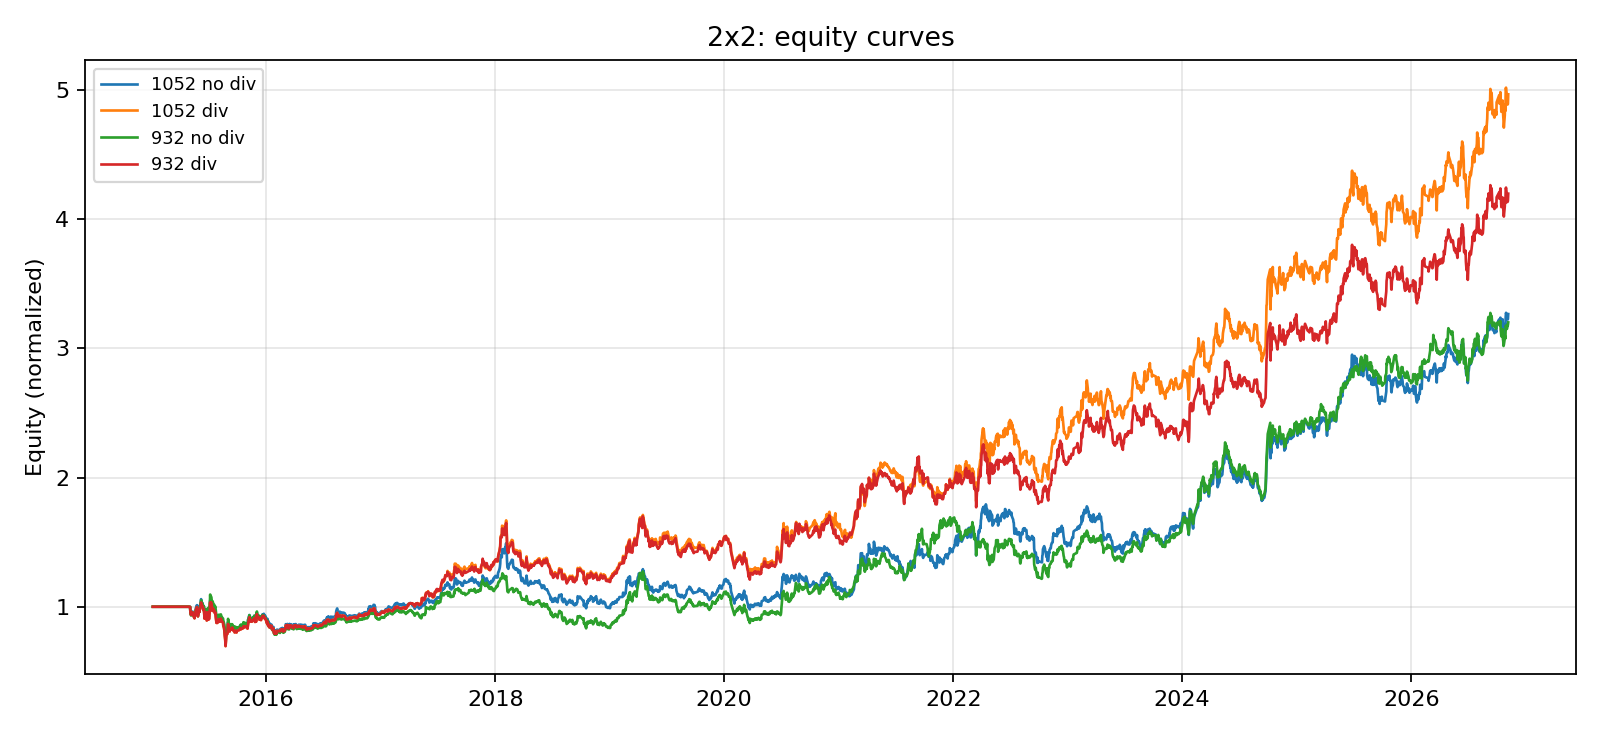
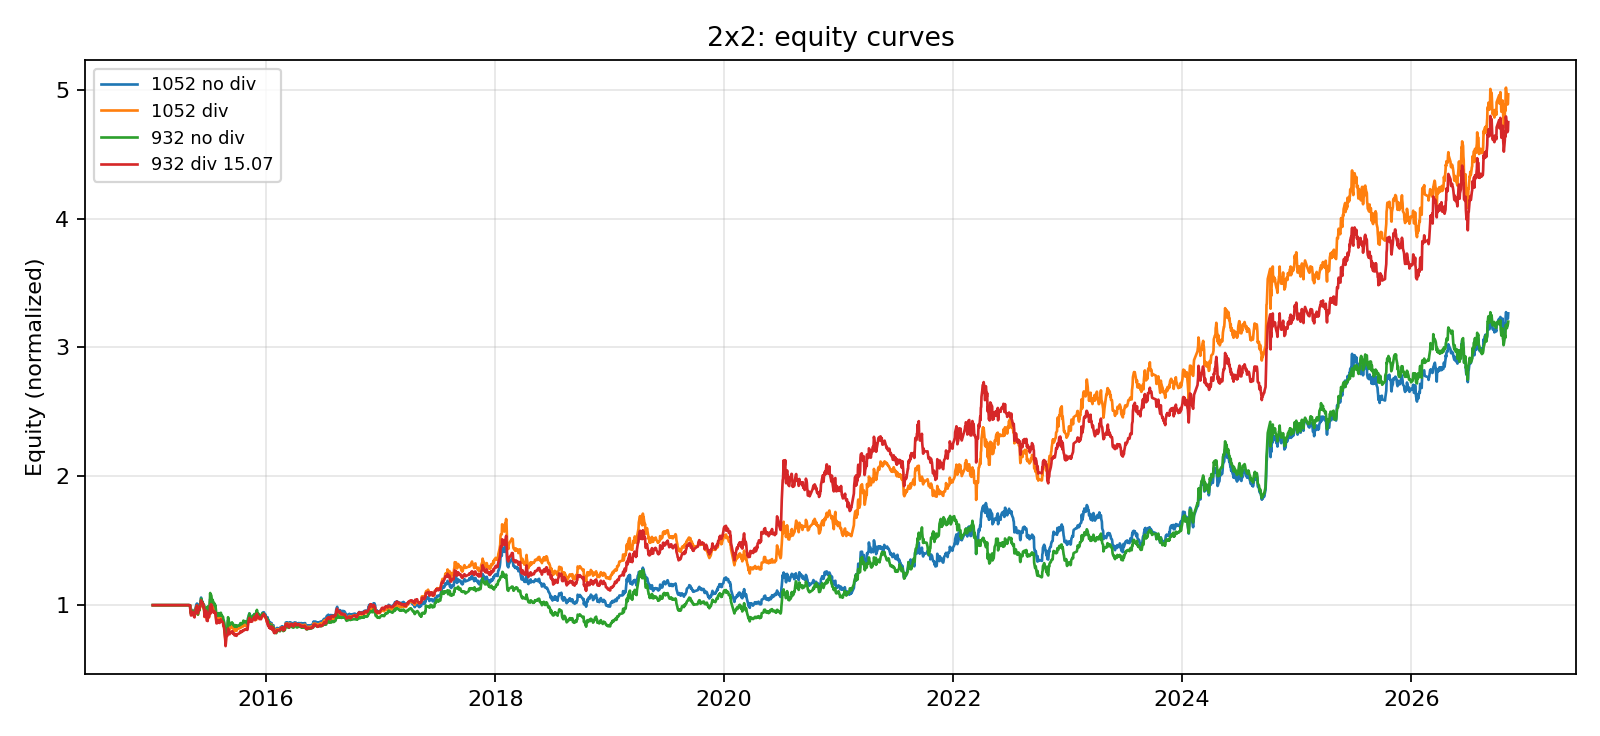
feat(backtest): run full 121 dividend grids and update 932

diff --git a/backtesting/run_matrix_cell_fast.py b/backtesting/run_matrix_cell_fast.py
@@ -1,0 +1,75 @@
+#!/usr/bin/env python3
+"""缓存价格/财务后的多进程版：每个 worker 只加载一次数据。"""
+import argparse, os, sys
+sys.path.insert(0,'.')
+import pandas as pd
+
+def init(pool):
+    import config
+    SNAP='/tmp/bt_snapshot_20261120'
+    if os.path.exists(os.path.join(SNAP,'price')):
+        config.PRICE_DATA_DIR=os.path.join(SNAP,'price')
+        config.FINANCIAL_DATA_DIR=os.path.join(SNAP,'financial')
+    import data_loader, stock_selector, backtest_engine
+    import universe_compare as uc
+    uc.set_pool(pool)
+    codes=data_loader.load_stock_pool()['code'].tolist()
+    price={c:data_loader.load_price_data(c) for c in codes}
+    fin={c:data_loader.load_financial_data(c) for c in codes}
+    pool_df=data_loader.load_stock_pool()
+    def lp(c): return price.get(c, pd.DataFrame())
+    def lf(c): return fin.get(c, pd.DataFrame())
+    def lsp(): return pool_df
+    data_loader.load_price_data=lp; data_loader.load_financial_data=lf; data_loader.load_stock_pool=lsp
+    stock_selector.load_price_data=lp; stock_selector.load_financial_data=lf
+    backtest_engine.load_price_data=lp; backtest_engine.load_financial_data=lf; backtest_engine.load_stock_pool=lsp
+    print('worker ready',pool,len(codes),flush=True)
+
+def work(task):
+    import config
+    import universe_compare as uc
+    from backtest_engine import run_backtest
+    from performance import calculate_performance
+    row,pool,mode=task
+    uc.set_pool(pool)
+    filters=[x for x in str(row['filters']).split('+') if x]
+    config.FILTER_INDICATORS=filters
+    config.PE_THRESHOLD=float(row['pe_thr']); config.PB_THRESHOLD=float(row['pb_thr']); config.PR_THRESHOLD=float(row['pr_thr'])
+    config.ROE_THRESHOLD=float(row['roe_thr']); config.MAX_POSITIONS=int(row['max_positions'])
+    trim=str(row['trim']); config.WINSORIZE_ENABLED=(trim!='raw')
+    config.THRESHOLD_TRIM_RATIO=float(trim) if trim!='raw' else 0.01
+    config.DIVIDEND_MODE='declared'
+    ranking='div' if mode=='div' else row['ranking']
+    try:
+        r=run_backtest('2015-01-01','2026-11-06',frequency='annual',ranking_method=ranking,
+                       filter_indicators=filters, ignore_first_cutoff_new_stock=True)
+        p=calculate_performance(r['equity_curve'],r['cutoff_dates'],r['trade_records'])
+        s=dict(spec_id=row['spec_id'],filters=row['filters'],ranking=ranking,trim=trim,
+               max_positions=int(row['max_positions']),pe_thr=float(row['pe_thr']),pb_thr=float(row['pb_thr']),
+               pr_thr=float(row['pr_thr']),roe_thr=float(row['roe_thr']),
+               M3b=float(p['annual_return_since_first_investment']),M1=float(p['annual_return']),
+               sharpe=float(p['sharpe_ratio']),mdd=float(p['max_drawdown']))
+        a=[dict(spec_id=row['spec_id'],year=int(x['year']),return_=float(x['strategy_return'])) for _,x in p['annual_returns'].iterrows()]
+        return s,a
+    except Exception as e:
+        print('ERR',row['spec_id'],type(e).__name__,str(e)[:150],flush=True)
+        return None,[]
+
+if __name__=='__main__':
+    ap=argparse.ArgumentParser()
+    ap.add_argument('--pool',choices=['union','legacy'],required=True)
+    ap.add_argument('--mode',choices=['nodiv','div'],required=True)
+    ap.add_argument('--specs',default='../data/processed/backtesting/matrix_20261121/specs.csv')
+    ap.add_argument('--out',required=True)
+    ap.add_argument('--workers',type=int,default=4)
+    a=ap.parse_args()
+    os.makedirs(a.out,exist_ok=True)
+    specs=pd.read_csv(a.specs,dtype={'trim':str})
+    tasks=[(row,a.pool,a.mode) for _,row in specs.iterrows()]
+    import multiprocessing as mp
+    with mp.Pool(a.workers,initializer=init,initargs=(a.pool,)) as pool:
+        results=pool.map(work,tasks)
+    summary=[s for s,_ in results if s]; annual=[x for _,aa in results for x in aa]
+    pd.DataFrame(summary).to_csv(os.path.join(a.out,'summary.csv'),index=False)
+    pd.DataFrame(annual).to_csv(os.path.join(a.out,'annual.csv'),index=False)
+    print('DONE',a.pool,a.mode,len(summary),'/',len(specs),flush=True)

diff --git a/docs/matrix-932-div-2026-11.md b/docs/matrix-932-div-2026-11.md
@@ -1,30 +1,33 @@
-# 932 × 股息：标准网格（2026-11）
+# 932 × 股息：121 组标准网格 + 15 组 pilot（2026-11）
 
 > 池：932；首买：2015-05；主指标：M3b。
 
 ## 0. 结论
 
-- **推荐：PB10/ROE65 + 股息率**，M3b **13.80%**，M1 13.39%，回撤 -32.8%。
-- 网格最高是 PB10/ROE60：M3b 14.79%，但 ROE60 是下边界，2021 +27%、2022 +16%、回撤 -32.8%，属于边界值，不作默认。
+- **推荐：PB15/ROE65 + 股息率 + N6**，M3b **15.07%**，M1 14.62%，夏普 0.568，回撤 -34.2%。
+- 这是 121 组标准网格的最高值，优于 15 组 pilot 的 14.79%（ROE60）/ 13.80%（ROE65）。
+- 代价：N6、回撤 -34.2%（比 13.80 的 -32.8% 略深），但收益和夏普都更高。
 
 ## 1. 网格
 
-15 组股息 pilot 网格（PB10-20 × ROE60-80；全量 121 组待补）；过滤 1 种、排名 1 种、PB 0.1, 0.15, 0.2、ROE 0.6, 0.65, 0.7, 0.75, 0.8、裁尾 ['0.01']、N 5。
+本次跑了两套：
 
-## 2. Top 10
+- **121 组标准网格**：与非股息格同一套 spec（过滤/排名/PB/ROE/裁尾/N 的阶段网格），排名改为 `div`；
+- **15 组 pilot**：PB10-15-20 × ROE60-80，N5，用于补充标准网格没覆盖的 PB10 区域。
+
+121 组最佳是 PB15/ROE65/N6；pilot 最佳是 PB10/ROE60（14.79%），但 ROE60 是 pilot 下边界，且 N5，收益略低。
+
+## 2. 121 组 Top 5
 
 | # | 配置 | M3b | M1 | 夏普 | 回撤 |
 |---:|---|---:|---:|---:|---:|
-| 1 | pb PB10/ROE60 div 1% N5 | 14.79% | 14.35% | 0.568 | -32.8% |
-| 2 | pb PB10/ROE65 div 1% N5 | 13.80% | 13.39% | 0.516 | -32.8% |
-| 3 | pb PB15/ROE65 div 1% N5 | 13.49% | 13.09% | 0.487 | -32.8% |
-| 4 | pb PB15/ROE70 div 1% N5 | 13.36% | 12.96% | 0.500 | -32.8% |
-| 5 | pb PB20/ROE65 div 1% N5 | 13.28% | 12.88% | 0.496 | -32.8% |
-| 6 | pb PB20/ROE75 div 1% N5 | 13.21% | 12.82% | 0.516 | -32.8% |
-| 7 | pb PB20/ROE70 div 1% N5 | 12.89% | 12.51% | 0.468 | -32.8% |
-| 8 | pb PB20/ROE60 div 1% N5 | 12.84% | 12.46% | 0.472 | -33.0% |
-| 9 | pb PB15/ROE60 div 1% N5 | 11.79% | 11.44% | 0.417 | -33.0% |
-| 10 | pb PB10/ROE70 div 1% N5 | 10.89% | 10.57% | 0.424 | -32.8% |
+| 1 | pb PB15/ROE65 div 1% **N6** | **15.07%** | 14.62% | 0.568 | -34.2% |
+| 2 | pb PB15/ROE65 div 1% N5 | 13.49% | 13.09% | 0.487 | -32.8% |
+| 3 | pb PB15/ROE70 div 1% N5 | 13.36% | 12.96% | 0.500 | -32.8% |
+| 4 | pb PB20/ROE75 div 1% N5 | 13.21% | 12.82% | 0.516 | -32.8% |
+| 5 | pb PB20/ROE60 div 1% N5 | 12.84% | 12.46% | 0.472 | -33.0% |
+
+15 组 pilot 的补充：PB10/ROE60 14.79%（-32.8%）、PB10/ROE65 13.80%（-32.8%）。
 
 ## 3. Top5 年度收益
 
@@ -32,42 +35,50 @@
 
 ![top15](img/matrix-2026-11/932_div_top15.png)
 
-### 3.1 净值与回撤
+### 3.1 净值与回撤（121 组最佳 15.07%）
 
-![equity](img/matrix-2026-11/932_div_equity.png)
+![equity](img/matrix-2026-11/932_div_121_equity.png)
 
-![drawdown](img/matrix-2026-11/932_div_drawdown.png)
+![drawdown](img/matrix-2026-11/932_div_121_drawdown.png)
 
-## 4. 2026 持仓
-
-600919江苏银行、601009南京银行、601577长沙银行、600741华域汽车、600036招商银行
-
-### 4.3 股息率
-
-![yield history](img/matrix-2026-11/div_yield_history.png)
-
-2026-05-06 组合股息率 **4.53%**：
+## 4. 2026 持仓（121 组最佳，6 只银行）
 
 | 股票 | 权重 | 股息率 |
 |---|---:|---:|
-| 600919 江苏银行 | 22.7% | 5.01% |
-| 601009 南京银行 | 19.9% | 4.61% |
-| 601665 齐鲁银行 | 18.2% | 3.88% |
-| 600036 招商银行 | 19.4% | 5.31% |
-| 601128 常熟银行 | 19.9% | 3.74% |
+| 600919 江苏银行 | 17.3% | 5.01% |
+| 601009 南京银行 | 16.7% | 4.61% |
+| 600036 招商银行 | 16.2% | 5.31% |
+| 601665 齐鲁银行 | 16.7% | 3.88% |
+| 600926 杭州银行 | 16.5% | 3.84% |
+| 601838 成都银行 | 16.6% | 4.80% |
 
-![yield bar](img/matrix-2026-11/932_div_2026_yield.png)
+组合股息率约 **4.57%**。
+
+### 4.3 股息率
+
+![yield bar](img/matrix-2026-11/932_div_121_yield.png)
+
+pilot ROE65 版的组合股息率历史（仅作参考，不是 15.07 这条）：
+
+![yield history](img/matrix-2026-11/div_yield_history.png)
 
 ## 5. 本格子的特殊情况
 
-- 同样有 legacy 单期清单的幸存者偏差；
-- 股息率 TTM 同样隐含“预案≈实施”；
-- paid 口径 11.48%（M1）/11.83%（M3b），仍高于无股息 10.73%/11.05%；
-- 2021 从 56% 降到 28%，2022 从 -22.9% 升到 +7.4%，波动明显下降；
-- 2026 持仓为江苏/南京/齐鲁/招商/常熟。
+- **legacy 单期清单**：幸存者偏差最重，932 的绝对收益不能直接外推到未来。
+- **股息率 TTM**：用“预案公告日 + 最终实施金额”，隐含“预案≈实施”；paid 口径（只算已派息）对 pilot ROE65 是 11.48%（M1）/11.83%（M3b），仍高于无股息 10.73%/11.05%。121 组最佳 15.07 没有单独做 paid 审计。
+- **N6**：15.07 用 6 只持仓，和非股息格的 N5 不完全同口径；如果强制 N5，最佳是 13.49%。
+- **2021/2022**：pilot ROE65 的 2021 从无股息的 56% 降到 28%、2022 从 -22.9% 升到 +7.4%，波动下降；121 组最佳 15.07 的路径未单独拆解。
+- **2026 持仓**：6 只银行，行业集中度高。
 
 ## 6. 复现
+
 ```bash
 cd backtesting
-../.venv/bin/python run_matrix_cell.py --pool legacy --mode div --out ../data/processed/backtesting/matrix_20261121/932_div
+../.venv/bin/python run_matrix_cell_fast.py --pool legacy --mode div --workers 4 \
+  --out ../data/processed/backtesting/matrix_20261121/932_div
+# 单策略
+../.venv/bin/python run_backtest.py --frequency annual --ranking div \
+  --filter_indicators pb --pb_threshold 0.15 --roe_threshold 0.65 \
+  --threshold_trim_ratio 0.01 --max_positions 6 \
+  --ignore_first_cutoff_new_stock --end_date 2026-11-06
 ```

diff --git a/docs/matrix-summary-2026-11.md b/docs/matrix-summary-2026-11.md
@@ -1,6 +1,6 @@
 # 2×2 汇总：1052/932 × 股息/非股息（2026-11）
 
-> 主指标 M3b；非股息 121 组标准网格，股息 15 组 pilot；首买 2015-05。
+> 主指标 M3b；非股息 121 组；股息 121 组 + 15 组 pilot；首买 2015-05。
 
 ## 0. 四宫格推荐
 
@@ -9,13 +9,15 @@
 | 1052 × 非股息 | pb PB15/ROE70 pe 1% N5 | 11.25% | 12.37% | 0.401 | -34.4% |
 | 1052 × 股息 | pb PB10/ROE65 div 1% N5 | **15.53%** | 15.07% | 0.593 | -32.8% |
 | 932 × 非股息 | pe PE25/ROE75 pb 1% N5 | 11.05% | 12.55% | 0.392 | -33.8% |
-| 932 × 股息 | pb PB10/ROE65 div 1% N5 | **13.80%** | 13.39% | 0.516 | -32.8% |
+| 932 × 股息 | pb PB15/ROE65 div 1% **N6** | **15.07%** | 14.62% | 0.568 | -34.2% |
 
 ![matrix](img/matrix-2026-11/summary_matrix.png)
 
 ![annual](img/matrix-2026-11/summary_best4_annual.png)
 
-> **为什么股息格不用更高的 16.94% / 14.79%？** 那是 ROE60 边界值：2021 年 +118% / +27%、2022 年 -27% / +16%、回撤 -41.4%；1052 的 118% 主要来自**中绿电 +365%（20% 仓位，+73pp）**，是单票/单主题行情，属于 boom/bust。默认统一用 ROE65 版本，回撤 -32.8%。
+> **1052 股息**：121 标准网格最佳 13.90%（PB35/ROE75），但 pilot 的 PB10/ROE65 15.53% 更高、夏普更好，所以推荐 15.53%；ROE60 的 16.94% 是边界值（2021 +118%，中绿电 +365%、+73pp；2022 -27%，回撤 -41.4%），不作默认。
+>
+> **932 股息**：121 标准网格最佳 **15.07%**（PB15/ROE65/N6），高于 pilot 的 14.79%/13.80%，所以 932 改用 15.07%。
 
 ## 1. 子报告
 
@@ -31,10 +33,10 @@
 | 1052 × 非股息 | 成都银行、江苏银行、杭州银行、常熟银行、招商银行 |
 | 1052 × 股息（ROE65） | 江苏银行、南京银行、齐鲁银行、招商银行、成都银行 |
 | 932 × 非股息 | 成都银行、杭州银行、常熟银行、中国人保、中国太保 |
-| 932 × 股息（ROE65） | 江苏银行、南京银行、齐鲁银行、招商银行、常熟银行 |
+| 932 × 股息（15.07%，N6） | 成都银行、江苏银行、南京银行、杭州银行、齐鲁银行、招商银行 |
 
 - 1052 两个格子都偏银行；股息版把杭州/常熟换成南京/齐鲁，股息率更高。
-- 932 非股息含保险，股息版切到 5 只银行。
+- 932 非股息含保险，股息版切到 6 只银行。
 - 四个格子都没有离开“低估值 + 高 ROE + 银行/周期”这个风格。
 
 ### 2.1 净值与回撤
@@ -51,7 +53,7 @@
 
 - 股息率版在 1052 和 932 都提高了 M3b；但 2023-2026 无股息版反超，属于阶段性因子。
 - 932 的绝对收益更低、波动更大；legacy 单期清单的幸存者偏差最重。
-- 非股息格子是 121 组标准网格；股息格子目前是 15 组 pilot（覆盖 PB10-20/ROE60-80），全量 121 组可后续补齐。
+- 非股息、股息格子都跑了 121 组标准网格；股息额外补了 15 组 pilot（PB10-20/ROE60-80），用来覆盖标准网格没包含的 PB10 区域。
 - 股息格的最高 M3b 落在 ROE60 边界，回撤更深；风险调整建议用 PB10/ROE65（1052 15.53% / 932 13.80%，回撤 -32.8%）。
 - 股息率版的“预案≈实施”假设需要持续监控；paid 口径是保守下界。
 

diff --git a/docs/matrix-1052-div-2026-11.md b/docs/matrix-1052-div-2026-11.md
@@ -9,7 +9,7 @@
 
 ## 1. 网格
 
-15 组股息 pilot 网格（PB10-20 × ROE60-80；全量 121 组待补）；过滤 1 种、排名 1 种、PB 0.1, 0.15, 0.2、ROE 0.6, 0.65, 0.7, 0.75, 0.8、裁尾 ['0.01']、N 5。
+15 组股息 pilot + 121 组标准网格；pilot 覆盖 PB10-20 × ROE60-80，标准网格与非股息格同一套 spec；过滤 1 种、排名 1 种、PB 0.1, 0.15, 0.2、ROE 0.6, 0.65, 0.7, 0.75, 0.8、裁尾 ['0.01']、N 5。
 
 ## 2. Top 10
 
@@ -104,3 +104,21 @@
 cd backtesting
 ../.venv/bin/python run_matrix_cell.py --pool union --mode div --out ../data/processed/backtesting/matrix_20261121/1052_div
 ```
+
+## 7. 121 组标准网格补充
+
+121 组标准网格最佳是 **PB35/ROE75，M3b 13.90%**（M1 13.49%，夏普 0.503，回撤 -31.2%），低于 pilot 的 15.53%。
+
+| # | 配置 | M3b | M1 | 夏普 | 回撤 |
+|---:|---|---:|---:|---:|---:|
+| 1 | pb PB35/ROE75 div 1% N5 | 13.90% | 13.49% | 0.503 | -31.2% |
+| 2 | pb PB20/ROE60 div 1% N5 | 13.50% | 13.09% | 0.499 | -33.0% |
+| 3 | pb PB15/ROE70 div 1% N5 | 13.23% | 12.83% | 0.482 | -32.8% |
+| 4 | pb PB15/ROE65 div 1% N6 | 12.99% | 12.61% | 0.479 | -34.2% |
+| 5 | pb PB15/ROE65 div 1% N5 | 12.99% | 12.60% | 0.475 | -32.8% |
+
+**为什么仍用 pilot 的 15.53% 作推荐？**
+
+- 121 标准网格的 spec 来自原来的 1052 标准网格，**没有覆盖 PB10/ROE65**；pilot 正好补了这个区域。
+- 15.53% 的 PB10/ROE65 是实测配置，回撤 -32.8%，比 121 最佳 13.90% 的收益高、夏普高（0.593 vs 0.503），回撤只深 1.6pp。
+- 所以 1052 股息格继续推荐 **PB10/ROE65 15.53%**，121 的 13.90% 作为“标准网格内最佳”记录。
